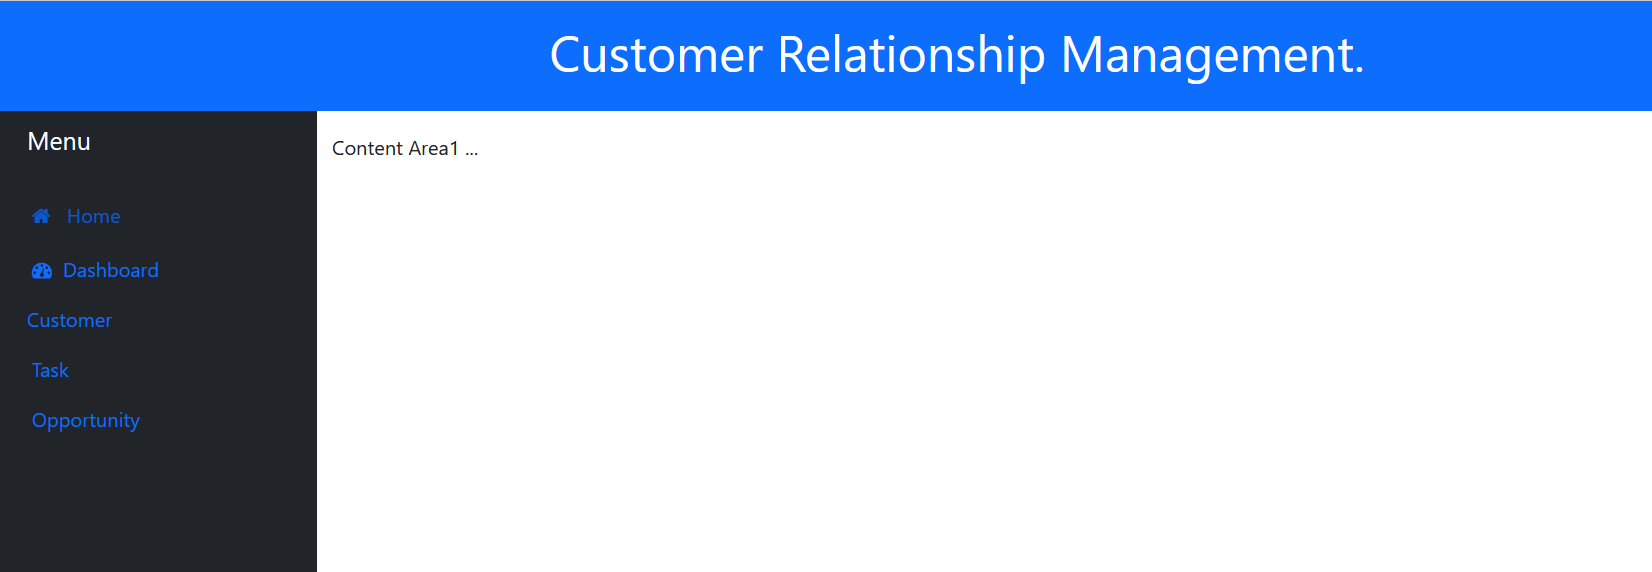
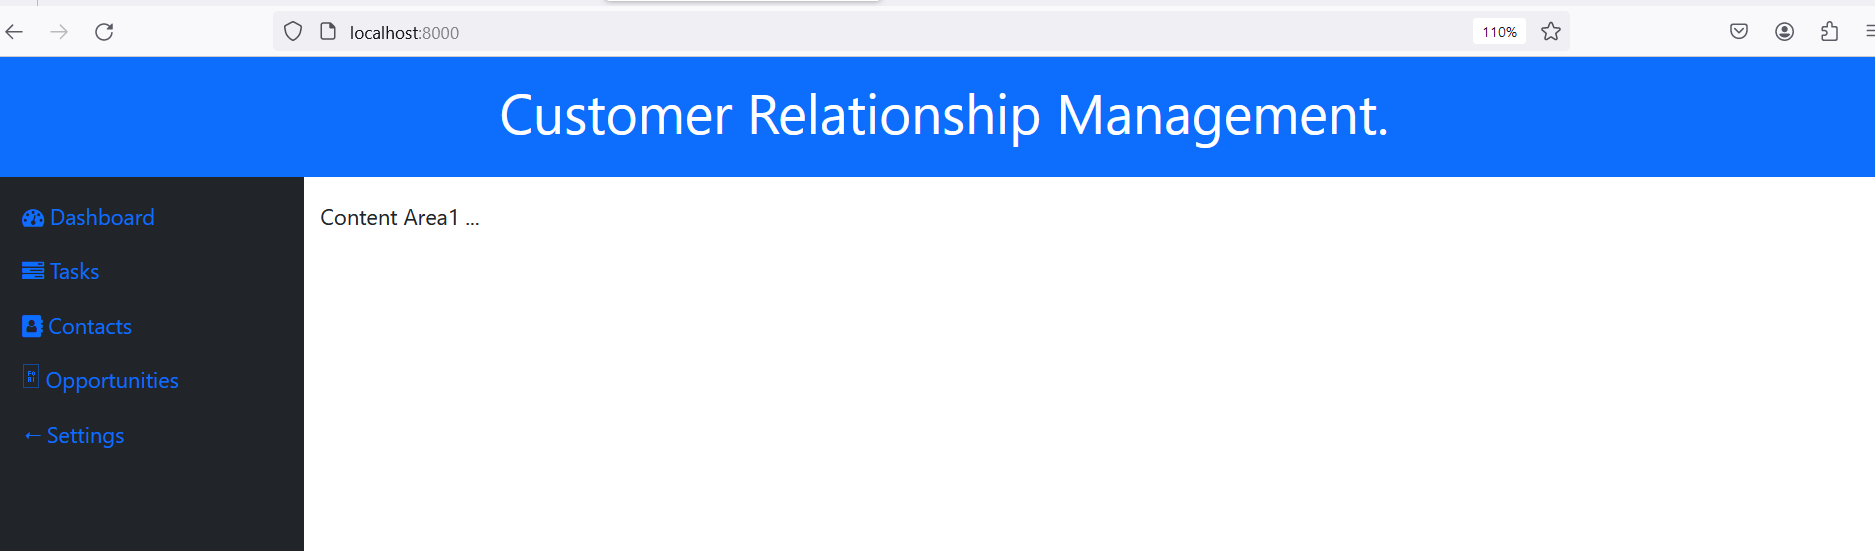
update

diff --git a/crm/webapp/templates/menu-items.html b/crm/webapp/templates/menu-items.html
@@ -1,30 +1,31 @@
+{% load static %}
 <ul
   class="nav nav-pills flex-column mb-sm-auto mb-0 align-items-center align-items-sm-start"
   id="menu"
 >
   <li class="nav-item">
-    <a href="#" class="nav-link align-middle px-0">
-      <i class="fs-4 bi-house"></i>
-      <span class="ms-1 d-none d-sm-inline"><i class="fa fa-home" aria-hidden="true"></i> &nbsp; Home</span>
-    </a>
-  </li>
-  <li class="nav-item">
     <a href="/dashboard" class="nav-link align-middle px-0">
-      <span class="ms-1 d-none d-sm-inline"><i class="fa fa-tachometer" aria-hidden="true"></i>&nbsp;
-        Dashboard</span>
+      <span class="ms-1 d-none d-sm-inline"><i class="fa fa-tachometer" aria-hidden="true"></i>&nbsp;Dashboard</span>
     </a>
   </li>
   <li class="nav-item">
-    <a href="/customer" class="nav-link align-middle px-0">Customer</a>
-  </li>
-  <li class="nav-item">
-    <a href="#" class="nav-link align-middle px-0">
-      <span class="ms-1 d-none d-sm-inline">Task</span>
+    <a href="/tasks" class="nav-link align-middle px-0">
+      <span class="ms-1 d-none d-sm-inline"><i class="fa fa-tasks" aria-hidden="true"></i>&nbsp;Tasks</span>
     </a>
   </li>
   <li class="nav-item">
-    <a href="/opportunity" class="nav-link align-middle px-0">
-      <span class="ms-1 d-none d-sm-inline">Opportunity</span>
+    <a href="{% url 'list-contact' %}" class="nav-link align-middle px-0">
+      <span class="ms-1 d-none d-sm-inline"><i class="fa fa-address-book" aria-hidden="true"></i>&nbsp;Contacts</span>
+    </a>
+  </li>
+  <li class="nav-item">
+    <a href="/opportunities" class="nav-link align-middle px-0">
+      <span class="ms-1 d-none d-sm-inline"><i class="fa-solid fa-bullhorn"></i>&nbsp;Opportunities</span>
+    </a>
+  </li>
+  <li class="nav-item">
+    <a href="/settings" class="nav-link align-middle px-0">
+      <span class="ms-1 d-none d-sm-inline"><i class="fa-duotone fa-gear"></i>&nbsp;Settings</span>
     </a>
   </li>
 </ul>

diff --git a/crm/webapp/templates/list-contact.html b/crm/webapp/templates/list-contact.html
@@ -1,7 +1,7 @@
 {% extends "base.html" %}
 
 {% block content %}  
-    <a href="customer/add" class="btn btn-primary btn-lg" tabindex="-1" role="button" aria-disabled="true">
+    <a href="{% url 'add-contact' %}" class="btn btn-primary btn-lg" tabindex="-1" role="button" aria-disabled="true">
         <i class="fa fa-plus" aria-hidden="true"></i>
     </a>
     <table class="table table-striped">
@@ -9,21 +9,23 @@
         <tr>
             <th scope="col">#</th>
             <th scope="col">Name</th>
-            <th scope="col">Address</th>
+            <th scope="col">Company</th>
             <th scope="col">Email</th>
             <th scope="col">Phone</th>
             <th scope="col">Created Date</th>
+            <th scope="col">&nbsp;</th>
         </tr>
         </thead>
         <tbody>
-        {% for customer in customers %}
+        {% for contact in contacts %}
         <tr>
             <th scope="row">{{forloop.counter}}</th>
-            <td>{{customer.name}}</td>
-            <td>{{customer.address}}</td>
-            <td>{{customer.email}}</td>
-            <td>{{customer.phone}}</td>
-            <td>{{customer.created_at}}</td>
+            <td>{{contact.first_name}} {{contact.last_name}}</td>
+            <td>{{contact.company}}</td>
+            <td>{{contact.email}}</td>
+            <td>{{contact.phone}}</td>
+            <td>{{contact.created_at}}</td>
+            <td><a href="{% url 'edit-contact' contact.id %}"><i class="fa fa-edit"></i></a></td>
         </tr>
         {% endfor %}
         </tbody>

diff --git a/crm/webapp/templates/add-contact.html b/crm/webapp/templates/add-contact.html
@@ -1,0 +1,32 @@
+{% extends "base.html" %}
+{% load crispy_forms_tags %}
+{% block content %}
+    <div class="container">
+    {% for message in messages %}
+        {% if message.level == DEFAULT_MESSAGE_LEVELS.SUCCESS %}
+            <p id="message-timer" class="alert alert-success float-center text-center message-text"> 
+                <i class="fa fa-check" aria-hidden="true"></i> &nbsp; {{message}}
+            </p>
+        {% endif %}
+    {% endfor %}
+    <form method="POST" autocomplete="off">
+        <fieldset>
+            <legend>Add Contact</legend>
+            {% csrf_token %}
+            {% for field in form %}
+            <div class="row">
+                <div class="col-xs-4">
+                    {{field|as_crispy_field}}
+                </div>
+            </div>
+            {% endfor %}
+            <div class="col-auto">
+                <button type="submit" class="btn btn-primary mb-3">Create &nbsp;<i class="fa fa-check" aria-hidden="true"></i></button>
+                <a href="{% url 'list-contact' %}" class="btn btn-primary mb-3" role="button" aria-disabled="true">
+                    &nbsp;Cancel&nbsp;
+                </a>
+            </div>
+        </fieldset>
+    </form>
+</div>
+{% endblock %}

diff --git a/crm/webapp/templates/edit-contact.html b/crm/webapp/templates/edit-contact.html
@@ -19,8 +19,8 @@
         </div>
         {% endfor %}
         <div class="col-auto">
-            <button type="submit" class="btn btn-primary mb-3">Create &nbsp;<i class="fa fa-check" aria-hidden="true"></i></button>
-            <a href="/customer" class="btn btn-primary mb-3" role="button" aria-disabled="true">
+            <button type="submit" class="btn btn-primary mb-3">Update &nbsp;<i class="fa fa-check" aria-hidden="true"></i></button>
+            <a href="{% url 'list-contact' %}" class="btn btn-primary mb-3" role="button" aria-disabled="true">
                 &nbsp;Cancel&nbsp;
             </a>
         </div>

diff --git a/crm/webapp/templates/errors-pages/405.html b/crm/webapp/templates/errors-pages/405.html
@@ -1,0 +1,5 @@
+{% extends "base.html" %}
+
+{% block content %}  
+    <h1>Unsupported method.</h1>
+{% endblock %}

diff --git a/crm/webapp/views.py b/crm/webapp/views.py
@@ -1,31 +1,56 @@
 from django.shortcuts import render
-from .models import CustomerDto
-from .forms import CustomerForm
+from .models import ContactDto
+from .forms import ContactForm
 from datetime import datetime
 from django.contrib import messages
+
+list_of_contacts = [
+        ContactDto(id=1, first_name='first', last_name='last', phone='123-123-123', company='123 ooo st', email="asd@gmail.com", created_at=datetime(2024, 5, 21, 9, 0, 0), updated_at=datetime(2024, 5, 21, 9, 0, 0)),
+        ContactDto(id=1, first_name='first', last_name='last', phone='123-123-123', company='123 ooo st', email="asd@gmail.com", created_at=datetime(2024, 5, 21, 9, 0, 0), updated_at=datetime(2024, 5, 21, 9, 0, 0)),
+        ContactDto(id=1, first_name='first', last_name='last', phone='123-123-123', company='123 ooo st', email="asd@gmail.com", created_at=datetime(2024, 5, 21, 9, 0, 0), updated_at=datetime(2024, 5, 21, 9, 0, 0)),
+        ContactDto(id=1, first_name='first', last_name='last', phone='123-123-123', company='123 ooo st', email="asd@gmail.com", created_at=datetime(2024, 5, 21, 9, 0, 0), updated_at=datetime(2024, 5, 21, 9, 0, 0)),
+        ContactDto(id=1, first_name='first', last_name='last', phone='123-123-123', company='123 ooo st', email="asd@gmail.com", created_at=datetime(2024, 5, 21, 9, 0, 0), updated_at=datetime(2024, 5, 21, 9, 0, 0)),
+    ]
+
+contacts = {contact.id: contact for contact in list_of_contacts}
+
 
 def home(request):
     return render(request, 'home.html', {})
 
-def list_customer(request):
-    context = {'customers': [
-        CustomerDto(name='test1', phone='123-123-123', address='123 ooo st', email="asd@gmail.com", created_at=datetime(2024, 5, 21, 9, 0, 0), updated_at=datetime(2024, 5, 21, 9, 0, 0)),
-        CustomerDto(name='test1', phone='123-123-123', address='123 ooo st', email="asd@gmail.com", created_at=datetime(2024, 5, 21, 9, 0, 0), updated_at=datetime(2024, 5, 21, 9, 0, 0)),
-        CustomerDto(name='test1', phone='123-123-123', address='123 ooo st', email="asd@gmail.com", created_at=datetime(2024, 5, 21, 9, 0, 0), updated_at=datetime(2024, 5, 21, 9, 0, 0)),
-        CustomerDto(name='test1', phone='123-123-123', address='123 ooo st', email="asd@gmail.com", created_at=datetime(2024, 5, 21, 9, 0, 0), updated_at=datetime(2024, 5, 21, 9, 0, 0)),
+def list_contact(request):
+    context = {'contacts': [
+        ContactDto(id=1, first_name='first', last_name='last', phone='123-123-123', company='123 ooo st', email="asd@gmail.com", created_at=datetime(2024, 5, 21, 9, 0, 0), updated_at=datetime(2024, 5, 21, 9, 0, 0)),
+        ContactDto(id=1, first_name='first', last_name='last', phone='123-123-123', company='123 ooo st', email="asd@gmail.com", created_at=datetime(2024, 5, 21, 9, 0, 0), updated_at=datetime(2024, 5, 21, 9, 0, 0)),
+        ContactDto(id=1, first_name='first', last_name='last', phone='123-123-123', company='123 ooo st', email="asd@gmail.com", created_at=datetime(2024, 5, 21, 9, 0, 0), updated_at=datetime(2024, 5, 21, 9, 0, 0)),
+        ContactDto(id=1, first_name='first', last_name='last', phone='123-123-123', company='123 ooo st', email="asd@gmail.com", created_at=datetime(2024, 5, 21, 9, 0, 0), updated_at=datetime(2024, 5, 21, 9, 0, 0)),
+        ContactDto(id=1, first_name='first', last_name='last', phone='123-123-123', company='123 ooo st', email="asd@gmail.com", created_at=datetime(2024, 5, 21, 9, 0, 0), updated_at=datetime(2024, 5, 21, 9, 0, 0)),
     ]}
-    return render(request, 'list-customer.html', context=context)
+    return render(request, 'list-contact.html', context=context)
 
-def create_customer(request):
+def edit_contact(request, id=0):
+    contact_dto = contacts[id]
+    
     if request.method == 'POST':
-        form = CustomerForm(request.POST)
+        form = ContactForm(data=contact_dto.toDict())
         if form.is_valid():
-            dto = CustomerDto(**form.cleaned_data, created_at = datetime.now(), updated_at = datetime.now())
+            # submit dto to the backend
+            messages.success(request, "Contact updated successfully.")
+    else:
+        form = ContactForm(initial=contact_dto.toDict())
+        
+    return render(request, "edit-contact.html", context={"form": form})
+
+def add_contact(request):
+    if request.method == 'POST':
+        form = ContactForm(request.POST)
+        if form.is_valid():
+            #dto = CustomerDto(**form.cleaned_data, created_at = datetime.now(), updated_at = datetime.now())
             # submit dto to the backend
             messages.success(request, "Customer added successfully.")
-            form = CustomerForm()
+            form = ContactForm()
     else:
-        form = CustomerForm()
+        form = ContactForm()
         
-    return render(request, "create-customer.html", context={'form': form})
+    return render(request, "add-contact.html", context={'form': form})
     

diff --git a/crm/webapp/models.py b/crm/webapp/models.py
@@ -4,69 +4,65 @@ from dataclasses import dataclass
 from datetime import datetime
 
 @dataclass(frozen=True)
-class CustomerDto:
-    name: str
+class ContactDto:
+    id: int
+    last_name: str
+    first_name: str
     email: str
     phone: str
-    address: str
+    company: str
     created_at: datetime
     updated_at: datetime
 
-"""
-class Customer1(models.Model):
-    name = models.CharField(max_length=100)
-    email = models.EmailField(unique=True)
-    phone = models.CharField(max_length=15, blank=True, null=True)
-    address = models.TextField(blank=True, null=True)
-    created_at = models.DateTimeField(auto_now_add=True)
-    updated_at = models.DateTimeField(auto_now=True)
+    def __str__(self):
+        return '{} {}'.format(self.first_name, self.last_name)
+    
+    def toDict(self):
+        return {"last_name": self.last_name, "first_name": self.first_name, "email": self.email, "phone": self.phone, "company": self.company}
 
+@dataclass(frozen=True)
+class TaskType:
+    name: str
+    
     def __str__(self):
         return self.name
 
-class Contact(models.Model):
-    customer = models.ForeignKey(Customer, related_name='contacts', on_delete=models.CASCADE)
-    name = models.CharField(max_length=100)
-    email = models.EmailField()
-    phone = models.CharField(max_length=15, blank=True, null=True)
-    position = models.CharField(max_length=100, blank=True, null=True)
-    created_at = models.DateTimeField(auto_now_add=True)
-    updated_at = models.DateTimeField(auto_now=True)
-
+@dataclass(frozen=True)
+class TaskStatus:
+    name: str
+    
     def __str__(self):
         return self.name
 
-class Task(models.Model):
-    customer = models.ForeignKey(Customer, related_name='tasks', on_delete=models.CASCADE)
-    title = models.CharField(max_length=100)
-    description = models.TextField(blank=True, null=True)
-    due_date = models.DateTimeField()
-    completed = models.BooleanField(default=False)
-    created_at = models.DateTimeField(auto_now_add=True)
-    updated_at = models.DateTimeField(auto_now=True)
-    assigned_to = models.ForeignKey(User, related_name='tasks', on_delete=models.SET_NULL, null=True, blank=True)
+@dataclass(frozen=True)
+class Task:
+    title: str
+    opportunity_id: int
+    due_date: datetime
+    type_id: int
+    status_id: int
 
     def __str__(self):
         return self.title
 
-class Opportunity(models.Model):
-    customer = models.ForeignKey(Customer, related_name='opportunities', on_delete=models.CASCADE)
-    title = models.CharField(max_length=100)
-    description = models.TextField(blank=True, null=True)
-    value = models.DecimalField(max_digits=10, decimal_places=2)
-    stage = models.CharField(max_length=50, choices=[
-        ('Qualification', 'Qualification'),
-        ('Needs Analysis', 'Needs Analysis'),
-        ('Proposal', 'Proposal'),
-        ('Negotiation', 'Negotiation'),
-        ('Closed Won', 'Closed Won'),
-        ('Closed Lost', 'Closed Lost'),
-    ])
-    close_date = models.DateField()
-    created_at = models.DateTimeField(auto_now_add=True)
-    updated_at = models.DateTimeField(auto_now=True)
-    assigned_to = models.ForeignKey(User, related_name='opportunities', on_delete=models.SET_NULL, null=True, blank=True)
-
+@dataclass(frozen=True)
+class OpportunityStatus:
+    name: str
+    
     def __str__(self):
-        return self.title
-"""
+        return self.name
+    
+@dataclass(frozen=True)
+class Opportunity:
+    name: str
+    amount: int
+    user_id: int
+    contact_id: int
+    status_id: int
+    open_date: datetime
+    close_date: datetime
+    
+    def __str__(self):
+        return self.name
+    
+# https://github.com/radzenhq/radzen-examples/blob/master/CRMDemo/crm-database-schema.sql

diff --git a/crm/webapp/urls.py b/crm/webapp/urls.py
@@ -19,6 +19,7 @@ from . import views
 
 urlpatterns = [
     path('', view=views.home, name='home'),
-    path('customer', views.list_customer, name='list-customer'),
-    path('customer/add', views.create_customer, name='create-customer'),
+    path('contact', views.list_contact, name='list-contact'),
+    path('contact/<int:id>/edit', views.edit_contact, name='edit-contact'),
+    path('contact/add', views.add_contact, name='add-contact'),
 ]

diff --git a/crm/webapp/forms.py b/crm/webapp/forms.py
@@ -1,7 +1,9 @@
 from django import forms
+from .models import ContactDto
 
-class CustomerForm(forms.Form):
-    name = forms.CharField(min_length=2)
+class ContactForm(forms.Form):
+    first_name = forms.CharField(label='Fist Name', min_length=2)
+    last_name = forms.CharField(label='Last Name', min_length=2)
     email = forms.EmailField()
     phone = forms.CharField()
-    address = forms.CharField()
+    company = forms.CharField()
